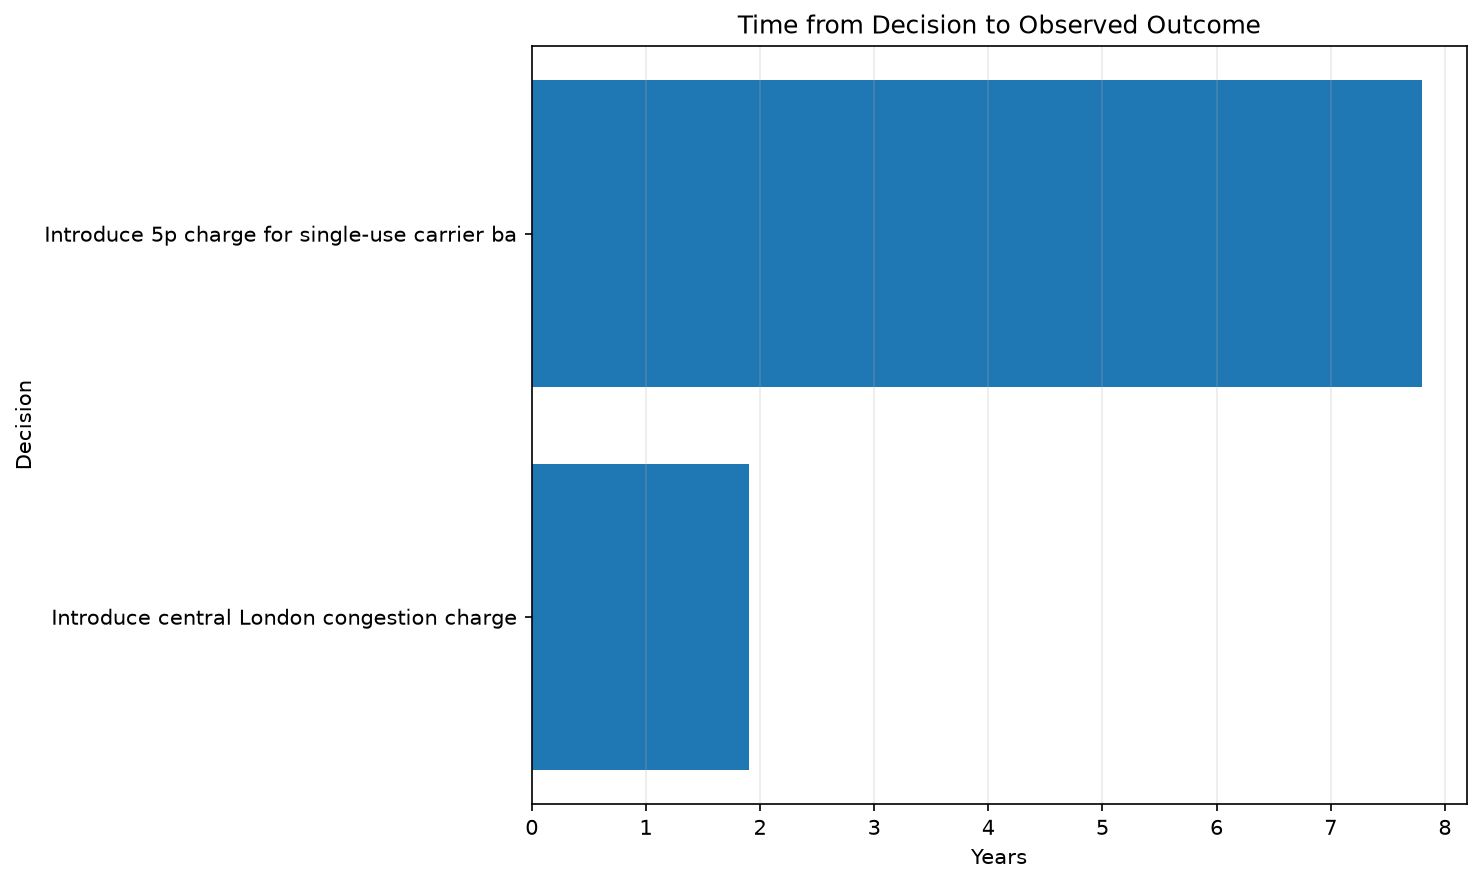
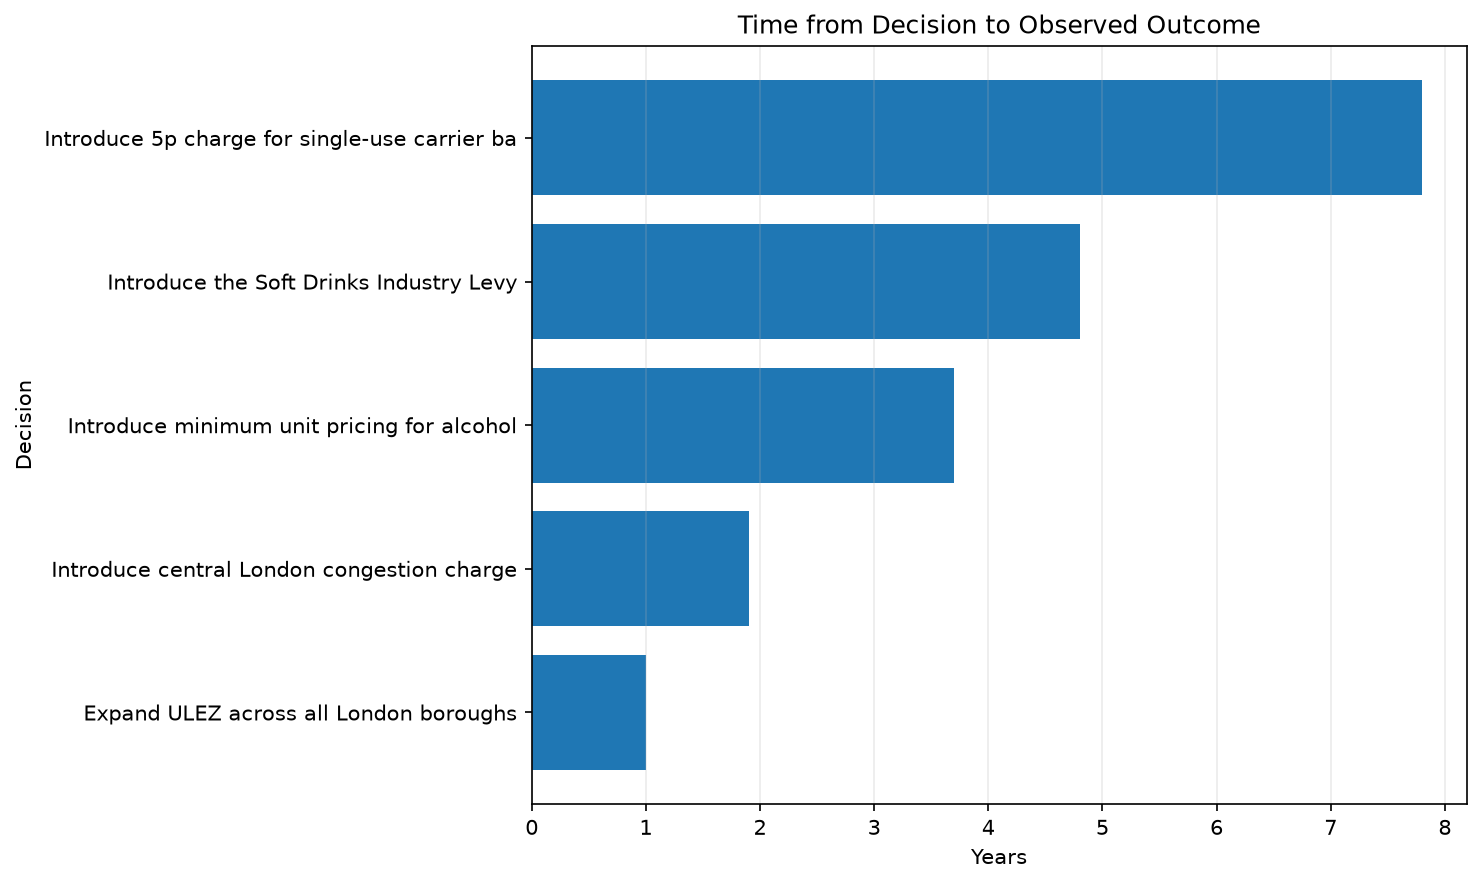
Fix decisions comparison chart normalization

diff --git a/reports/output/decisions_vs_outcomes.html b/reports/output/decisions_vs_outcomes.html
@@ -68,9 +68,9 @@ nav a {
 <p>Comparing claims made during major policy debates with measurable outcomes observed afterward</p>
 <h2>Summary</h2>
 <ul>
-<li>Decisions analyzed: 2</li>
-<li>Categories: 2</li>
-<li>Jurisdictions: 2</li>
+<li>Decisions analyzed: 7</li>
+<li>Categories: 4</li>
+<li>Jurisdictions: 4</li>
 </ul>
 <h2>Published Expectations vs Outcomes</h2>
 <p><img alt="Prediction vs Outcome" src="assets/decisions_prediction_vs_outcome.png" /></p>
@@ -109,6 +109,56 @@ nav a {
 <td>7.8 years</td>
 <td>Government said the charge could reduce usage by as much as 80 percent in large supermarkets.</td>
 <td>98.00 percent</td>
+<td>high</td>
+</tr>
+<tr>
+<td>public_health_policy</td>
+<td>Introduce minimum unit pricing for alcohol</td>
+<td>2018-05-01</td>
+<td>2021-12-31</td>
+<td>3.7 years</td>
+<td>Modelling projected approximately a 3.5 percent reduction in alcohol consumption after introduction of minimum unit pricing.</td>
+<td>3.50 percent reduction</td>
+<td>high</td>
+</tr>
+<tr>
+<td>public_health_policy</td>
+<td>Introduce minimum unit pricing for alcohol</td>
+<td>2018-05-01</td>
+<td>2020-12-31</td>
+<td>2.7 years</td>
+<td>Pre-implementation modelling projected a reduction in alcohol-attributable deaths after minimum unit pricing.</td>
+<td>13.40 percent reduction</td>
+<td>high</td>
+</tr>
+<tr>
+<td>public_health_policy</td>
+<td>Introduce the Soft Drinks Industry Levy</td>
+<td>2016-03-16</td>
+<td>2020-12-31</td>
+<td>4.8 years</td>
+<td>The levy was designed to encourage manufacturers to reformulate drinks and reduce sugar content.</td>
+<td>46.00 percent reduction</td>
+<td>high</td>
+</tr>
+<tr>
+<td>fiscal_policy</td>
+<td>Introduce the Soft Drinks Industry Levy</td>
+<td>2016-03-16</td>
+<td>2019-03-31</td>
+<td>3.0 years</td>
+<td>Budget 2016 expected the Soft Drinks Industry Levy to raise about £520 million in its first full year.</td>
+<td>240.00 GBP million</td>
+<td>medium</td>
+</tr>
+<tr>
+<td>environment_policy</td>
+<td>Expand ULEZ across all London boroughs</td>
+<td>2023-08-29</td>
+<td>2024-08-29</td>
+<td>1.0 years</td>
+<td>Expansion was expected to reduce road-transport emissions and improve roadside air quality across outer London.</td>
+<td>4.80 percent reduction</td>
 <td>high</td>
 </tr>
 </tbody>

diff --git a/analytics_platform/reporting/charts.py b/analytics_platform/reporting/charts.py
@@ -776,6 +776,13 @@ def plot_decision_prediction_vs_outcome(
         axis=1,
     )
 
+    data["prediction_chart_value"] = (
+        pd.to_numeric(
+            data["prediction_chart_value"],
+            errors="coerce",
+        )
+    )
+
     data["outcome_value"] = (
         pd.to_numeric(
             data["outcome_value"],
@@ -783,73 +790,108 @@ def plot_decision_prediction_vs_outcome(
         )
     )
 
-    data = data.dropna(
-        subset=[
-            "prediction_chart_value",
-            "outcome_value",
-        ]
-    )
+    # Only use cases that can be meaningfully normalized.
+    # Thresholds such as > 0 cannot be expressed as an
+    # observed-vs-predicted ratio.
+    data = data[
+        data["prediction_chart_value"].notna()
+        & data["outcome_value"].notna()
+        & (data["prediction_chart_value"] > 0)
+    ].copy()
 
     if data.empty:
         return None
 
-    chart_data = []
+    # Normalize each case so the published prediction = 100.
+    # This lets percentages, revenue, capacity, etc. coexist
+    # without mixing their raw units on one axis.
+    data["prediction_index"] = 100.0
 
-    for _, row in data.iterrows():
-        chart_data.append(
-            {
-                "label": str(
-                    row["decision"]
-                )[:40],
-                "series": "Prediction",
-                "value": row[
-                    "prediction_chart_value"
-                ],
-            }
-        )
-
-        chart_data.append(
-            {
-                "label": str(
-                    row["decision"]
-                )[:40],
-                "series": "Observed",
-                "value": row[
-                    "outcome_value"
-                ],
-            }
-        )
-
-    chart_df = pd.DataFrame(
-        chart_data
+    data["outcome_index"] = (
+        data["outcome_value"]
+        / data["prediction_chart_value"]
+        * 100
     )
 
-    pivot = chart_df.pivot(
-        index="label",
-        columns="series",
-        values="value",
+    # Each row must have a unique visual label because a single
+    # policy decision may have multiple measured outcomes.
+    data["chart_label"] = (
+        data["decision"].astype(str).str.slice(0, 30)
+        + " — "
+        + data["predicted_metric"]
+        .astype(str)
+        .str.replace("_", " ")
+        .str.slice(0, 28)
     )
 
-    plt.figure(figsize=(10, 6))
+    # Guard against any remaining duplicate labels.
+    duplicate_number = (
+        data.groupby("chart_label")
+        .cumcount()
+    )
 
-    pivot.plot(
+    data.loc[
+        duplicate_number > 0,
+        "chart_label"
+    ] = (
+        data.loc[
+            duplicate_number > 0,
+            "chart_label"
+        ]
+        + " #"
+        + (
+            duplicate_number[
+                duplicate_number > 0
+            ]
+            + 1
+        ).astype(str)
+    )
+
+    chart = data.set_index(
+        "chart_label"
+    )[
+        [
+            "prediction_index",
+            "outcome_index",
+        ]
+    ]
+
+    chart.columns = [
+        "Published Prediction",
+        "Observed Outcome",
+    ]
+
+    plt.figure(
+        figsize=(11, 6)
+    )
+
+    chart.plot(
         kind="bar",
         ax=plt.gca(),
     )
 
-    plt.title(
-        "Published Expectation vs Observed Outcome"
+    plt.axhline(
+        100,
+        linestyle="--",
+        linewidth=1,
     )
 
-    plt.xlabel("Decision")
-    plt.ylabel("Comparable Metric")
+    plt.title(
+        "Observed Outcome Relative to Published Prediction"
+    )
+
+    plt.xlabel("Decision / Metric")
+    plt.ylabel(
+        "Index (Published Prediction = 100)"
+    )
 
     plt.xticks(
-        rotation=20,
+        rotation=25,
         ha="right",
     )
 
     plt.legend()
+
     plt.grid(
         axis="y",
         alpha=0.25,
@@ -858,6 +900,7 @@ def plot_decision_prediction_vs_outcome(
     return _save_chart(
         "decisions_prediction_vs_outcome.png"
     )
+
 
 
 def plot_decision_horizons(df):

diff --git a/reports/output/decisions_vs_outcomes.md b/reports/output/decisions_vs_outcomes.md
@@ -4,9 +4,9 @@ Comparing claims made during major policy debates with measurable outcomes obser
 
 ## Summary
 
-- Decisions analyzed: 2
-- Categories: 2
-- Jurisdictions: 2
+- Decisions analyzed: 7
+- Categories: 4
+- Jurisdictions: 4
 
 ## Published Expectations vs Outcomes
 
@@ -22,6 +22,11 @@ Comparing claims made during major policy debates with measurable outcomes obser
 |---|---|---|---|---|---|---|---|
 | transport_policy | Introduce central London congestion charge | 2003-02-17 | 2004-12-31 | 1.9 years | The scheme was predicted to reduce traffic entering central London by 10 to 15 percent. | 18.00 percent | high |
 | environment_policy | Introduce 5p charge for single-use carrier bags | 2015-10-05 | 2023-07-31 | 7.8 years | Government said the charge could reduce usage by as much as 80 percent in large supermarkets. | 98.00 percent | high |
+| public_health_policy | Introduce minimum unit pricing for alcohol | 2018-05-01 | 2021-12-31 | 3.7 years | Modelling projected approximately a 3.5 percent reduction in alcohol consumption after introduction of minimum unit pricing. | 3.50 percent reduction | high |
+| public_health_policy | Introduce minimum unit pricing for alcohol | 2018-05-01 | 2020-12-31 | 2.7 years | Pre-implementation modelling projected a reduction in alcohol-attributable deaths after minimum unit pricing. | 13.40 percent reduction | high |
+| public_health_policy | Introduce the Soft Drinks Industry Levy | 2016-03-16 | 2020-12-31 | 4.8 years | The levy was designed to encourage manufacturers to reformulate drinks and reduce sugar content. | 46.00 percent reduction | high |
+| fiscal_policy | Introduce the Soft Drinks Industry Levy | 2016-03-16 | 2019-03-31 | 3.0 years | Budget 2016 expected the Soft Drinks Industry Levy to raise about £520 million in its first full year. | 240.00 GBP million | medium |
+| environment_policy | Expand ULEZ across all London boroughs | 2023-08-29 | 2024-08-29 | 1.0 years | Expansion was expected to reduce road-transport emissions and improve roadside air quality across outer London. | 4.80 percent reduction | high |
 
 ## Interpretation Principle
 
